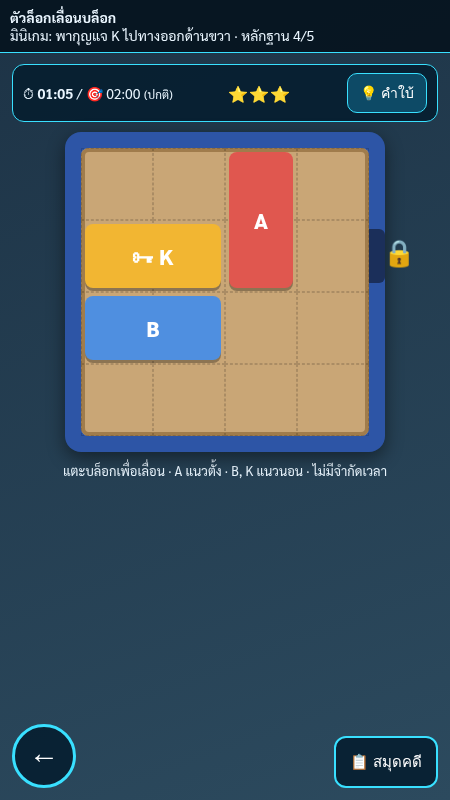
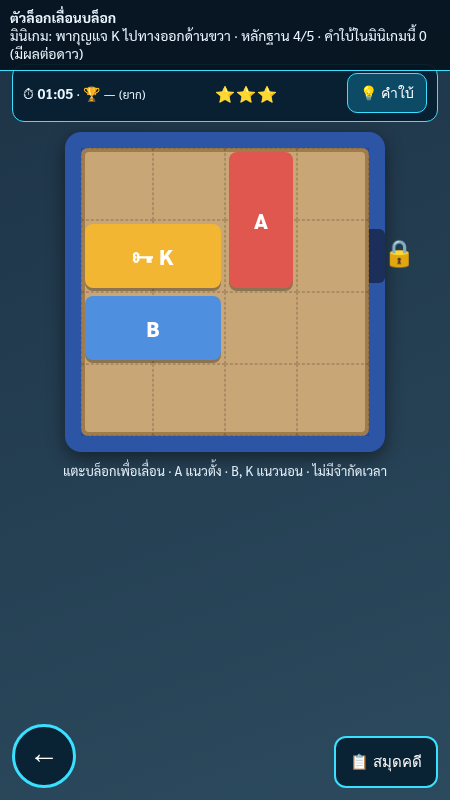
docs+poc: free exploration/grandma hints; hide target times from player (picker + HUD); case 01 v0.2.6; refresh minigame PNGs

Changed region(s): [[0.0, 0.0312, 1.0, 0.125]]

diff --git a/docs/design/never-ending-story-game-case-01-missing-family-album-th.md b/docs/design/never-ending-story-game-case-01-missing-family-album-th.md
@@ -2,7 +2,7 @@
 ## คดี 01: อัลบั้มครอบครัวที่หายไป
 ### ร่างเนื้อเรื่องและลำดับการเล่น
 
-**เวอร์ชัน:** 0.2.5 — ฉบับร่างสำหรับทดลองเล่น (กระจายคดีไปหลายห้อง)  
+**เวอร์ชัน:** 0.2.6 — ฉบับร่างสำหรับทดลองเล่น (กระจายคดีไปหลายห้อง)  
 **วันที่:** 22 ตุลาคม 2026  
 **รูปแบบ:** เกมมือถือแนวตั้ง สัมผัสหน้าจอ (ไม่ใช่ VR/AR) มุมมองบุคคลที่หนึ่ง จุดกล้องตายตัว HUD บนหน้าจอ  
 **ผู้เล่น:** ฝึกเดี่ยวก่อน จากนั้นเล่นคดีคนเดียวหรือทีมส่วนตัว 2–3 คน  
@@ -24,7 +24,8 @@
 | 0.2.2 | 22 ต.ค. 2026 | หัวข้อ 8: เปลี่ยน "ไม่มีการจับเวลา" เป็น "ไม่มีจำกัดเวลา (แสดงเวลาที่ใช้และสถิติดีที่สุดเท่านั้น)" ให้ตรงกับสูตรความชำนาญ |
 | 0.2.3 | 22 ต.ค. 2026 | อ้างอิงสูตรดาวใหม่ (3 ดาวต้องไม่ใช้คำใบ้และทันเวลาเป้าหมายตามระดับความยาก) ในหัวข้อ 4 และ 8 |
 | 0.2.4 | 22 ต.ค. 2026 | ผู้ใช้อนุมัติการสรุปคดี: ฉาก 4 เป็นกระดานสรุปคดี 3 คำถาม (ใคร/ทำไม/ที่ไหน) แต่ละข้อต้องมีการ์ดหลักฐานยืนยัน (E01 หรือ E03 / E02 / E04) ถูกครบจึงเปิดตัวล็อกกล่องได้ ปรับเส้นทางในหัวข้อ 5 และเงื่อนไขจบคดีในหัวข้อ 10 |
-| 0.2.5 | 22 ต.ค. 2026 | ระบบคำใบ้ที่อนุมัติ: คำใบ้มาจากปุ่มคำใบ้บนหน้าจอ 3 ระดับ (ห้อง / ไฮไลต์วัตถุ / เฉพาะมินิเกม: เผย 1 ขั้น) ยายให้คำใบ้เฉพาะหลังตอบผิดบนกระดานสรุปคดี ทุกคำใบ้นับตามสูตรดาว ดูหัวข้อ 8 / ระบุแพลตฟอร์มมือถือแนวตั้งสัมผัสหน้าจอ แว่น AR เป็นแค่แรงบันดาลใจด้าน HUD / ฉาก 0: บทสอน 3 ขั้นและเลือกความยาก (ง่าย/ปานกลาง/ยาก) ก่อนออกจากประตูห้อง |
+| 0.2.5 | 22 ต.ค. 2026 | ระบบคำใบ้ที่อนุมัติ: คำใบ้มาจากปุ่มคำใบ้บนหน้าจอ 3 ระดับ (ห้อง / ไฮไลต์วัตถุ / เฉพาะมินิเกม: เผย 1 ขั้น) ยายให้คำใบ้เฉพาะหลังตอบผิดบนกระดานสรุปคดี เฉพาะคำใบ้ในมินิเกมมีผลต่อดาว ดูหัวข้อ 8 / ระบุแพลตฟอร์มมือถือแนวตั้งสัมผัสหน้าจอ แว่น AR เป็นแค่แรงบันดาลใจด้าน HUD / ฉาก 0: บทสอน 3 ขั้นและเลือกความยาก (ง่าย/ปานกลาง/ยาก) ก่อนออกจากประตูห้อง |
+| 0.2.6 | 22 ต.ค. 2026 | ยืนยัน: คำใบ้สำรวจ (ระดับ 1–2) และคำใบ้ของยายใช้ฟรี ไม่มีผลต่อดาว เฉพาะคำใบ้ในมินิเกมมีผลต่อดาวของมินิเกมนั้น ไม่มีดาวระดับคดี / ซ่อนเวลาเป้าหมายจากผู้เล่น (ตัวเลือกความยากไม่แสดงเวลา HUD แสดงเฉพาะเวลาที่ใช้และสถิติดีที่สุด) |
 
 ---
 
@@ -312,7 +313,7 @@ MVP จบที่หน้าตัวอย่างนี้ ยังไม
 |---|---|---|---|
 | ครอสเวิร์ด | ตารางเล็ก มีภาพและคลังคำ | คำใบ้ข้อความและตัวอักษรบางช่อง | ตารางใหญ่ขึ้นและลดตัวช่วยเริ่มต้น |
 | จิ๊กซอว์ | เสนอ 6 ชิ้น พร้อมภาพตัวอย่าง | เสนอ 12 ชิ้น พร้อมดูภาพตัวอย่างได้ | เสนอ 20 ชิ้น โดยคำใบ้เรียกใช้ได้ |
-| เลื่อนบล็อก | ตัวอย่างสามจังหวะในหัวข้อ 9 | กระดานที่ผ่านตรวจสอบและใช้หลายจังหวะขึ้น | กระดานซับซ้อนขึ้น แต่ไม่มีจำกัดเวลา (แสดงเวลาที่ใช้ เวลาเป้าหมายสำหรับ 3 ดาว และสถิติดีที่สุด) |
+| เลื่อนบล็อก | ตัวอย่างสามจังหวะในหัวข้อ 9 | กระดานที่ผ่านตรวจสอบและใช้หลายจังหวะขึ้น | กระดานซับซ้อนขึ้น แต่ไม่มีจำกัดเวลา (แสดงเวลาที่ใช้และสถิติดีที่สุด เวลาเป้าหมายซ่อนจากผู้เล่น) |
 
 ตัวเลขชิ้นภาพและขนาดโจทย์เป็นค่าตั้งต้นสำหรับทดสอบ ต้องตรวจความอ่านง่ายและพื้นที่แตะบนมือถือจริง ความยากเปลี่ยนโจทย์และคำช่วย ไม่เปลี่ยนหลักฐานปลายทาง
 
@@ -325,7 +326,7 @@ MVP จบที่หน้าตัวอย่างนี้ ยังไม
   2. ไฮไลต์วัตถุที่ควรแตะ
   3. (เฉพาะมินิเกม) เผยขั้นที่ถูกต้อง 1 ขั้น (เช่น เติมตัวอักษร 1 ช่อง วางชิ้นจิ๊กซอว์ 1 ชิ้น เลื่อนบล็อกที่ถูก 1 ครั้ง)
 - ยายมะลิให้คำใบ้ **เฉพาะหลังตอบผิดบนกระดานสรุปคดี** เท่านั้น (บทพูด "ผู้เล่นติด" ที่อนุมัติไว้ใช้เป็นคำใบ้ของยายเมื่อตอบข้อ 3 "เก็บไว้ที่ไหน" ผิด)
-- ทุกคำใบ้ที่ใช้ถูกนับตามสูตรดาว: ในมินิเกมนับเข้าดาวของมินิเกมนั้น นอกมินิเกม (คำใบ้ระดับ 1–2 และคำใบ้ของยาย) บันทึกเป็นจำนวนคำใบ้ของคดี (ยังไม่มีดาวระดับคดี — การตีความนี้รอยืนยัน)
+- เฉพาะคำใบ้ที่ใช้ **ในมินิเกม** เท่านั้นที่มีผลต่อดาวของมินิเกมนั้น คำใบ้สำรวจนอกมินิเกม (ระดับ 1–2) และคำใบ้ของยายบนกระดานสรุปคดี **ใช้ได้ฟรี ไม่มีผลต่อดาวใด ๆ** ไม่มีดาวระดับคดี (ยืนยันแล้ว)
 - ปุ่มคำใบ้รูปหลอดไฟ อยู่ใกล้ HUD ด้านบน ไม่ใช่มุมล่างซ้าย (ที่ของปุ่มย้อนกลับ)
 
 คำใบ้เพิ่มของแต่ละโจทย์ในหัวข้อ 9 คือคำใบ้ระดับ 3

diff --git a/docs/design/never-ending-story-game-spec-v0.4-th.md b/docs/design/never-ending-story-game-spec-v0.4-th.md
@@ -21,7 +21,7 @@
 ## 1.1 การเริ่มเกม
 - (ค่าตั้งต้น ผู้ใช้ปรับได้) เกมเปิดที่ห้องของผู้เล่น
 - บทสอนสั้น 3 ขั้นผ่าน HUD: (1) แตะวัตถุ (2) ปุ่มย้อนกลับ (3) เปิดสมุด/กระดานคดี
-- เลือกระดับความยาก (ง่าย / ปานกลาง / ยาก) ทุกครั้งที่เริ่มคดี ตอนออกจากประตูห้อง ระดับที่เลือกกำหนดเวลาเป้าหมายสำหรับ 3 ดาว
+- เลือกระดับความยาก (ง่าย / ปานกลาง / ยาก) ทุกครั้งที่เริ่มคดี ตอนออกจากประตูห้อง ระดับที่เลือกกำหนดเวลาเป้าหมายสำหรับ 3 ดาว ตัวเลือกแสดงเฉพาะชื่อระดับ ไม่แสดงเวลา
 
 ## 2. สไตล์ภาพ — แบบ B
 3 มิติ low-poly สีพาสเทลแบบของเล่น + HUD บนหน้าจอ (สไตล์ได้แรงบันดาลใจจากแว่น AR) เส้นสีฟ้า ป้ายชี้วัตถุ ปุ่มใหญ่ด้านล่าง
@@ -85,11 +85,11 @@
   - เล่นจบโดยไม่ใช้คำใบ้ **และ** ภายในเวลาเป้าหมาย = 3 ดาว
 - เวลาเป้าหมายขึ้นกับระดับความยากที่ผู้เล่นเลือกทุกครั้งที่เริ่มคดี (ตอนออกจากประตูห้อง) (ง่าย / ปกติ / ยาก)
 - เกินเวลาเป้าหมายไม่ทำให้แพ้ ได้สูงสุด 2 ดาว
-- ระหว่างเล่นแสดงเวลาที่ใช้คู่กับเวลาเป้าหมาย และบันทึกเวลาดีที่สุดของตัวเองแยกตามมินิเกม
+- ระหว่างเล่นแสดงเฉพาะเวลาที่ใช้และสถิติดีที่สุดของตัวเอง **ไม่แสดงเวลาเป้าหมาย** (ซ่อนไว้ ใช้ภายในเพื่อตัดสิน 3 ดาวเท่านั้น) ตัวแสดงดาวขณะเล่นแสดงได้ แต่ต้องไม่เผยเวลาเป้าหมาย
 - เก็บผลที่ดีที่สุดไว้ ดาวรวมใช้ปลดล็อกของตกแต่งห้องส่วนตัว
 - ไม่มีบทลงโทษ
 
-**เวลาเป้าหมายเริ่มต้น (สำหรับ 3 ดาว)** — ผู้เล่นเลือกระดับความยากทุกครั้งที่เริ่มคดี
+**เวลาเป้าหมายเริ่มต้น (สำหรับ 3 ดาว) — สำหรับทีมออกแบบเท่านั้น ซ่อนจากผู้เล่น** — ผู้เล่นเลือกระดับความยากทุกครั้งที่เริ่มคดี
 
 | มินิเกม | ง่าย | ปานกลาง | ยาก |
 |---|---|---|---|
@@ -125,7 +125,7 @@
   2. ไฮไลต์วัตถุที่ควรแตะ
   3. (เฉพาะมินิเกม) เผยขั้นที่ถูกต้อง 1 ขั้น (เช่น เติมตัวอักษร 1 ช่อง วางชิ้นจิ๊กซอว์ 1 ชิ้น เลื่อนบล็อกที่ถูก 1 ครั้ง)
 - ยายมะลิให้คำใบ้ **เฉพาะหลังตอบผิดบนกระดานสรุปคดี** เท่านั้น (บทพูด "ผู้เล่นติด" ที่อนุมัติไว้ใช้เป็นคำใบ้ของยายเมื่อตอบข้อ 3 "เก็บไว้ที่ไหน" ผิด)
-- ทุกคำใบ้ที่ใช้ถูกนับตามสูตรดาว: ในมินิเกมนับเข้าดาวของมินิเกมนั้น นอกมินิเกม (คำใบ้ระดับ 1–2 และคำใบ้ของยาย) บันทึกเป็นจำนวนคำใบ้ของคดี (ยังไม่มีดาวระดับคดี — การตีความนี้รอยืนยัน)
+- เฉพาะคำใบ้ที่ใช้ **ในมินิเกม** เท่านั้นที่มีผลต่อดาวของมินิเกมนั้น คำใบ้สำรวจนอกมินิเกม (ระดับ 1–2) และคำใบ้ของยายบนกระดานสรุปคดี **ใช้ได้ฟรี ไม่มีผลต่อดาวใด ๆ** ไม่มีดาวระดับคดี (ยืนยันแล้ว)
 - ปุ่มคำใบ้รูปหลอดไฟ อยู่ใกล้ HUD ด้านบน ไม่ใช่มุมล่างซ้าย (ที่ของปุ่มย้อนกลับ)
 
 ## 8. เลื่อนไปภายหลัง
@@ -143,6 +143,10 @@
 
 **v0.4 แก้ไข (22 ต.ค. 2026):** เพิ่มการสรุปคดีบนกระดานคดี 3 คำถาม พร้อมการ์ดหลักฐานยืนยัน ถูกครบจึงเปิดกล่องได้
 
-**v0.4 แก้ไข (22 ต.ค. 2026):** เพิ่มระบบคำใบ้จากปุ่มคำใบ้บนหน้าจอ 3 ระดับ ยายให้คำใบ้เฉพาะหลังตอบผิดบนกระดานสรุปคดี ทุกคำใบ้นับตามสูตรดาว
+**v0.4 แก้ไข (22 ต.ค. 2026):** เพิ่มระบบคำใบ้จากปุ่มคำใบ้บนหน้าจอ 3 ระดับ ยายให้คำใบ้เฉพาะหลังตอบผิดบนกระดานสรุปคดี เฉพาะคำใบ้ในมินิเกมมีผลต่อดาว
 
 **v0.4 แก้ไข (22 ต.ค. 2026):** ระบุแพลตฟอร์มมือถือแนวตั้งสัมผัสหน้าจอ (ไม่ใช่ VR/AR) เปลี่ยนคำว่าแว่น AR เป็น HUD บนหน้าจอ เพิ่มการเริ่มเกม (บทสอน 3 ขั้น เลือกความยากทุกครั้งที่เริ่มคดี) และเปลี่ยนชื่อระดับ ปกติ → ปานกลาง
+
+**v0.4 แก้ไข (22 ต.ค. 2026):** ยืนยันว่าคำใบ้สำรวจและคำใบ้ของยายใช้ฟรี เฉพาะคำใบ้ในมินิเกมมีผลต่อดาว ไม่มีดาวระดับคดี
+
+**v0.4 แก้ไข (22 ต.ค. 2026):** เวลาเป้าหมายซ่อนจากผู้เล่น ตัวเลือกความยากแสดงเฉพาะชื่อระดับ HUD แสดงเฉพาะเวลาที่ใช้และสถิติดีที่สุด

diff --git a/docs/design/design-decisions-2026-10-22-th.md b/docs/design/design-decisions-2026-10-22-th.md
@@ -97,11 +97,11 @@
   - เล่นจบโดยไม่ใช้คำใบ้ **และ** ภายในเวลาเป้าหมาย = 3 ดาว
 - เวลาเป้าหมายขึ้นกับระดับความยากที่ผู้เล่นเลือกทุกครั้งที่เริ่มคดี (ตอนออกจากประตูห้อง) (ง่าย / ปกติ / ยาก)
 - เกินเวลาเป้าหมายไม่ทำให้แพ้ ได้สูงสุด 2 ดาว
-- ระหว่างเล่นแสดงเวลาที่ใช้คู่กับเวลาเป้าหมาย และบันทึกเวลาดีที่สุดของตัวเองแยกตามมินิเกม
+- ระหว่างเล่นแสดงเฉพาะเวลาที่ใช้และสถิติดีที่สุดของตัวเอง **ไม่แสดงเวลาเป้าหมาย** (ซ่อนไว้ ใช้ภายในเพื่อตัดสิน 3 ดาวเท่านั้น) ตัวแสดงดาวขณะเล่นแสดงได้ แต่ต้องไม่เผยเวลาเป้าหมาย
 - เก็บผลที่ดีที่สุดไว้ ดาวรวมใช้ปลดล็อกของตกแต่งห้องส่วนตัว
 - ไม่มีบทลงโทษ
 
-**เวลาเป้าหมายเริ่มต้น (สำหรับ 3 ดาว)**
+**เวลาเป้าหมายเริ่มต้น (สำหรับ 3 ดาว) — สำหรับทีมออกแบบเท่านั้น ซ่อนจากผู้เล่น**
 
 | มินิเกม | ง่าย | ปานกลาง | ยาก |
 |---|---|---|---|
@@ -137,7 +137,7 @@
   2. ไฮไลต์วัตถุที่ควรแตะ
   3. (เฉพาะมินิเกม) เผยขั้นที่ถูกต้อง 1 ขั้น (เช่น เติมตัวอักษร 1 ช่อง วางชิ้นจิ๊กซอว์ 1 ชิ้น เลื่อนบล็อกที่ถูก 1 ครั้ง)
 - ยายมะลิให้คำใบ้ **เฉพาะหลังตอบผิดบนกระดานสรุปคดี** เท่านั้น (บทพูด "ผู้เล่นติด" ที่อนุมัติไว้ใช้เป็นคำใบ้ของยายเมื่อตอบข้อ 3 "เก็บไว้ที่ไหน" ผิด)
-- ทุกคำใบ้ที่ใช้ถูกนับตามสูตรดาว: ในมินิเกมนับเข้าดาวของมินิเกมนั้น นอกมินิเกม (คำใบ้ระดับ 1–2 และคำใบ้ของยาย) บันทึกเป็นจำนวนคำใบ้ของคดี (ยังไม่มีดาวระดับคดี — การตีความนี้รอยืนยัน)
+- เฉพาะคำใบ้ที่ใช้ **ในมินิเกม** เท่านั้นที่มีผลต่อดาวของมินิเกมนั้น คำใบ้สำรวจนอกมินิเกม (ระดับ 1–2) และคำใบ้ของยายบนกระดานสรุปคดี **ใช้ได้ฟรี ไม่มีผลต่อดาวใด ๆ** ไม่มีดาวระดับคดี (ยืนยันแล้ว)
 - ปุ่มคำใบ้รูปหลอดไฟ อยู่ใกล้ HUD ด้านบน ไม่ใช่มุมล่างซ้าย (ที่ของปุ่มย้อนกลับ)
 
 ## แพลตฟอร์ม (ยืนยันแล้ว)
@@ -149,7 +149,7 @@
 
 - (ค่าตั้งต้น ผู้ใช้ปรับได้) เกมเปิดที่ห้องของผู้เล่น
 - บทสอนสั้น 3 ขั้นผ่าน HUD: (1) แตะวัตถุ (2) ปุ่มย้อนกลับ (3) เปิดสมุด/กระดานคดี
-- เลือกระดับความยาก (ง่าย / ปานกลาง / ยาก) ทุกครั้งที่เริ่มคดี ตอนออกจากประตูห้อง ระดับที่เลือกกำหนดเวลาเป้าหมายสำหรับ 3 ดาว
+- เลือกระดับความยาก (ง่าย / ปานกลาง / ยาก) ทุกครั้งที่เริ่มคดี ตอนออกจากประตูห้อง ระดับที่เลือกกำหนดเวลาเป้าหมายสำหรับ 3 ดาว ตัวเลือกแสดงเฉพาะชื่อระดับ ไม่แสดงเวลา
 
 ## ยังไม่ล็อก
 - (ไม่มี)
